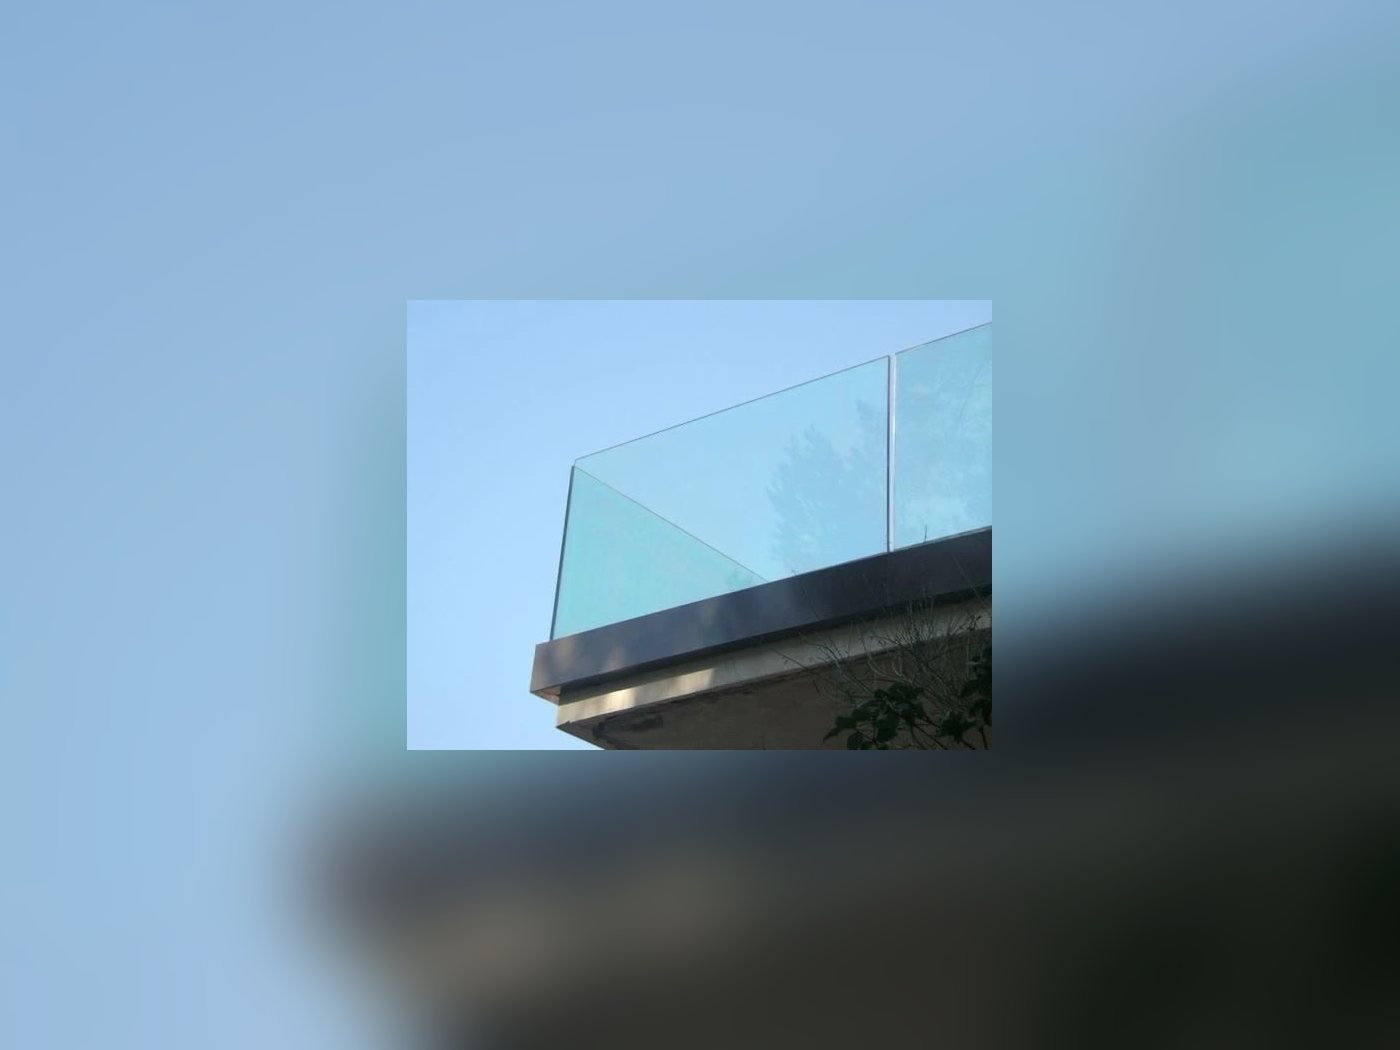
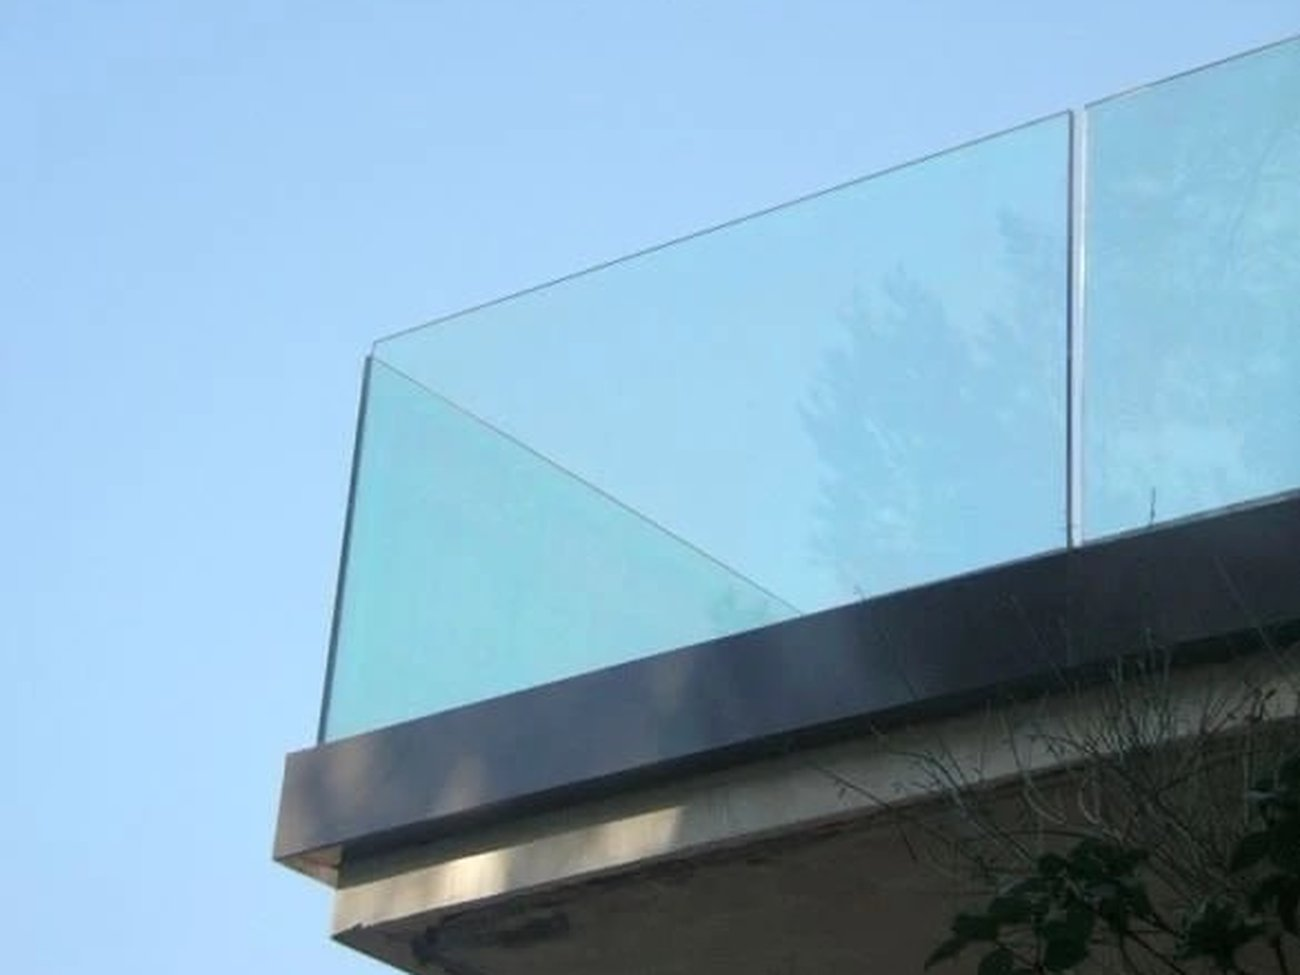
Первый экран: убрана размытая заливка (из-за неё резкая часть кадра была разного размера) — все 15 кадров кадрированы в ровный 4:3 1300x975, каждый слайд заполняет рамку одинаково. Смещение кадра у слайдов, где конструкция была срезана. Мобильная: список в 2 колонки, фото выше — закрывает 36% вместо

diff --git a/v2.html b/v2.html
@@ -185,10 +185,10 @@ header{position:sticky;top:0;z-index:50;background:rgba(247,241,230,.85);
 .hero2-types a:hover{color:#fff;text-decoration-color:rgba(255,255,255,.9)}
 @media(max-width:900px){
   .hero2-inner{display:block;min-height:0}
-  .hero2-media{position:relative;width:auto;max-width:none;height:60vw;max-height:430px}
+  .hero2-media{position:relative;width:auto;max-width:none;height:74vw;max-height:470px}
   .hero2-media::after{background:linear-gradient(0deg,var(--cream) 1%,rgba(247,241,230,0) 34%)}
-    .hero2-types{left:20px;right:18px;bottom:18px;grid-template-columns:1fr;gap:0}
-  .hero2-types a{font-size:13px;line-height:1.62}
+    .hero2-types{left:16px;right:14px;bottom:14px;grid-template-columns:repeat(2,1fr);gap:0 12px}
+  .hero2-types a{font-size:11.5px;line-height:1.72;letter-spacing:.02em;text-underline-offset:3px}
   .hero2-text{padding:46px 0 22px;max-width:none}
 }
 .btn--outline{background:transparent;border-color:var(--line-dark);color:var(--ink)}
@@ -533,12 +533,12 @@ footer .bottom{display:flex;justify-content:space-between;gap:16px;flex-wrap:wra
       <img src="img/hero-mix-11.jpg" alt="" loading="lazy">
       <img src="img/hero-mix-07.jpg" alt="" loading="lazy">
       <img src="img/hero-mix-13.jpg" alt="" loading="lazy">
-      <img src="img/hero-mix-01.jpg" alt="" loading="lazy">
+      <img src="img/hero-mix-01.jpg" alt="" loading="lazy" style="object-position:78% 50%">
       <img src="img/hero-mix-09.jpg" alt="" loading="lazy">
       <img src="img/hero-mix-14.jpg" alt="" loading="lazy">
       <img src="img/hero-mix-06.jpg" alt="" loading="lazy">
       <img src="img/hero-mix-12.jpg" alt="" loading="lazy">
-      <img src="img/hero-mix-02.jpg" alt="" loading="lazy">
+      <img src="img/hero-mix-02.jpg" alt="" loading="lazy" style="object-position:72% 50%">
       <img src="img/hero-mix-08.jpg" alt="" loading="lazy">
     </div>
     <nav class="hero2-types" aria-label="Типы конструкций">

diff --git a/hitech-cyan.html b/hitech-cyan.html
@@ -185,10 +185,10 @@ header{position:sticky;top:0;z-index:50;background:rgba(13,18,24,.85);
 .hero2-types a:hover{color:#fff;text-decoration-color:rgba(255,255,255,.9)}
 @media(max-width:900px){
   .hero2-inner{display:block;min-height:0}
-  .hero2-media{position:relative;width:auto;max-width:none;height:60vw;max-height:430px}
+  .hero2-media{position:relative;width:auto;max-width:none;height:74vw;max-height:470px}
   .hero2-media::after{background:linear-gradient(0deg,var(--cream) 1%,rgba(13,18,24,0) 34%)}
-    .hero2-types{left:20px;right:18px;bottom:18px;grid-template-columns:1fr;gap:0}
-  .hero2-types a{font-size:13px;line-height:1.62}
+    .hero2-types{left:16px;right:14px;bottom:14px;grid-template-columns:repeat(2,1fr);gap:0 12px}
+  .hero2-types a{font-size:11.5px;line-height:1.72;letter-spacing:.02em;text-underline-offset:3px}
   .hero2-text{padding:46px 0 22px;max-width:none}
 }
 .btn--outline{background:transparent;border-color:var(--line-dark);color:var(--ink)}
@@ -570,12 +570,12 @@ footer .bottom{color:#6b7680}
       <img src="img/hero-mix-11.jpg" alt="" loading="lazy">
       <img src="img/hero-mix-07.jpg" alt="" loading="lazy">
       <img src="img/hero-mix-13.jpg" alt="" loading="lazy">
-      <img src="img/hero-mix-01.jpg" alt="" loading="lazy">
+      <img src="img/hero-mix-01.jpg" alt="" loading="lazy" style="object-position:78% 50%">
       <img src="img/hero-mix-09.jpg" alt="" loading="lazy">
       <img src="img/hero-mix-14.jpg" alt="" loading="lazy">
       <img src="img/hero-mix-06.jpg" alt="" loading="lazy">
       <img src="img/hero-mix-12.jpg" alt="" loading="lazy">
-      <img src="img/hero-mix-02.jpg" alt="" loading="lazy">
+      <img src="img/hero-mix-02.jpg" alt="" loading="lazy" style="object-position:72% 50%">
       <img src="img/hero-mix-08.jpg" alt="" loading="lazy">
     </div>
     <nav class="hero2-types" aria-label="Типы конструкций">

diff --git a/index.html b/index.html
@@ -185,10 +185,10 @@ header{position:sticky;top:0;z-index:50;background:rgba(13,18,24,.85);
 .hero2-types a:hover{color:#fff;text-decoration-color:rgba(255,255,255,.9)}
 @media(max-width:900px){
   .hero2-inner{display:block;min-height:0}
-  .hero2-media{position:relative;width:auto;max-width:none;height:60vw;max-height:430px}
+  .hero2-media{position:relative;width:auto;max-width:none;height:74vw;max-height:470px}
   .hero2-media::after{background:linear-gradient(0deg,var(--cream) 1%,rgba(13,18,24,0) 34%)}
-    .hero2-types{left:20px;right:18px;bottom:18px;grid-template-columns:1fr;gap:0}
-  .hero2-types a{font-size:13px;line-height:1.62}
+    .hero2-types{left:16px;right:14px;bottom:14px;grid-template-columns:repeat(2,1fr);gap:0 12px}
+  .hero2-types a{font-size:11.5px;line-height:1.72;letter-spacing:.02em;text-underline-offset:3px}
   .hero2-text{padding:46px 0 22px;max-width:none}
 }
 .btn--outline{background:transparent;border-color:var(--line-dark);color:var(--ink)}
@@ -570,12 +570,12 @@ footer .bottom{color:#6b7680}
       <img src="img/hero-mix-11.jpg" alt="" loading="lazy">
       <img src="img/hero-mix-07.jpg" alt="" loading="lazy">
       <img src="img/hero-mix-13.jpg" alt="" loading="lazy">
-      <img src="img/hero-mix-01.jpg" alt="" loading="lazy">
+      <img src="img/hero-mix-01.jpg" alt="" loading="lazy" style="object-position:78% 50%">
       <img src="img/hero-mix-09.jpg" alt="" loading="lazy">
       <img src="img/hero-mix-14.jpg" alt="" loading="lazy">
       <img src="img/hero-mix-06.jpg" alt="" loading="lazy">
       <img src="img/hero-mix-12.jpg" alt="" loading="lazy">
-      <img src="img/hero-mix-02.jpg" alt="" loading="lazy">
+      <img src="img/hero-mix-02.jpg" alt="" loading="lazy" style="object-position:72% 50%">
       <img src="img/hero-mix-08.jpg" alt="" loading="lazy">
     </div>
     <nav class="hero2-types" aria-label="Типы конструкций">
